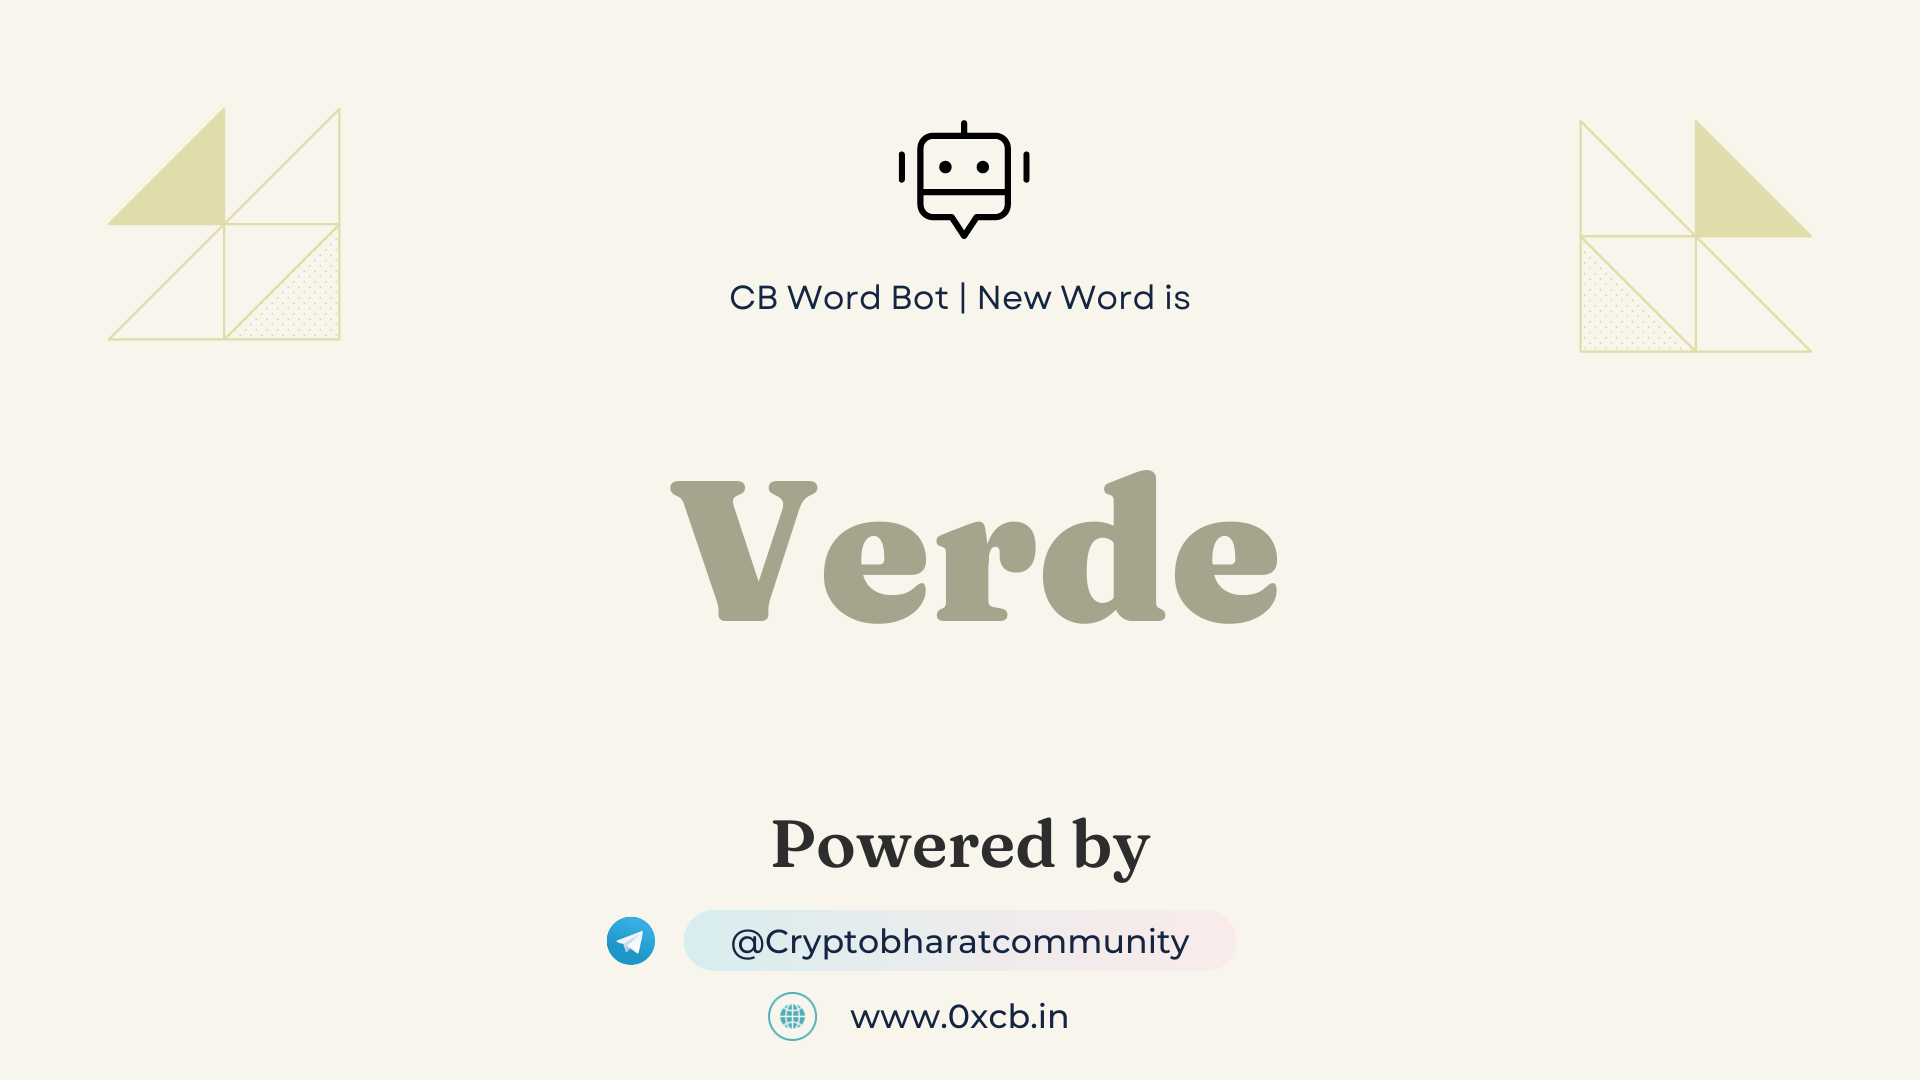
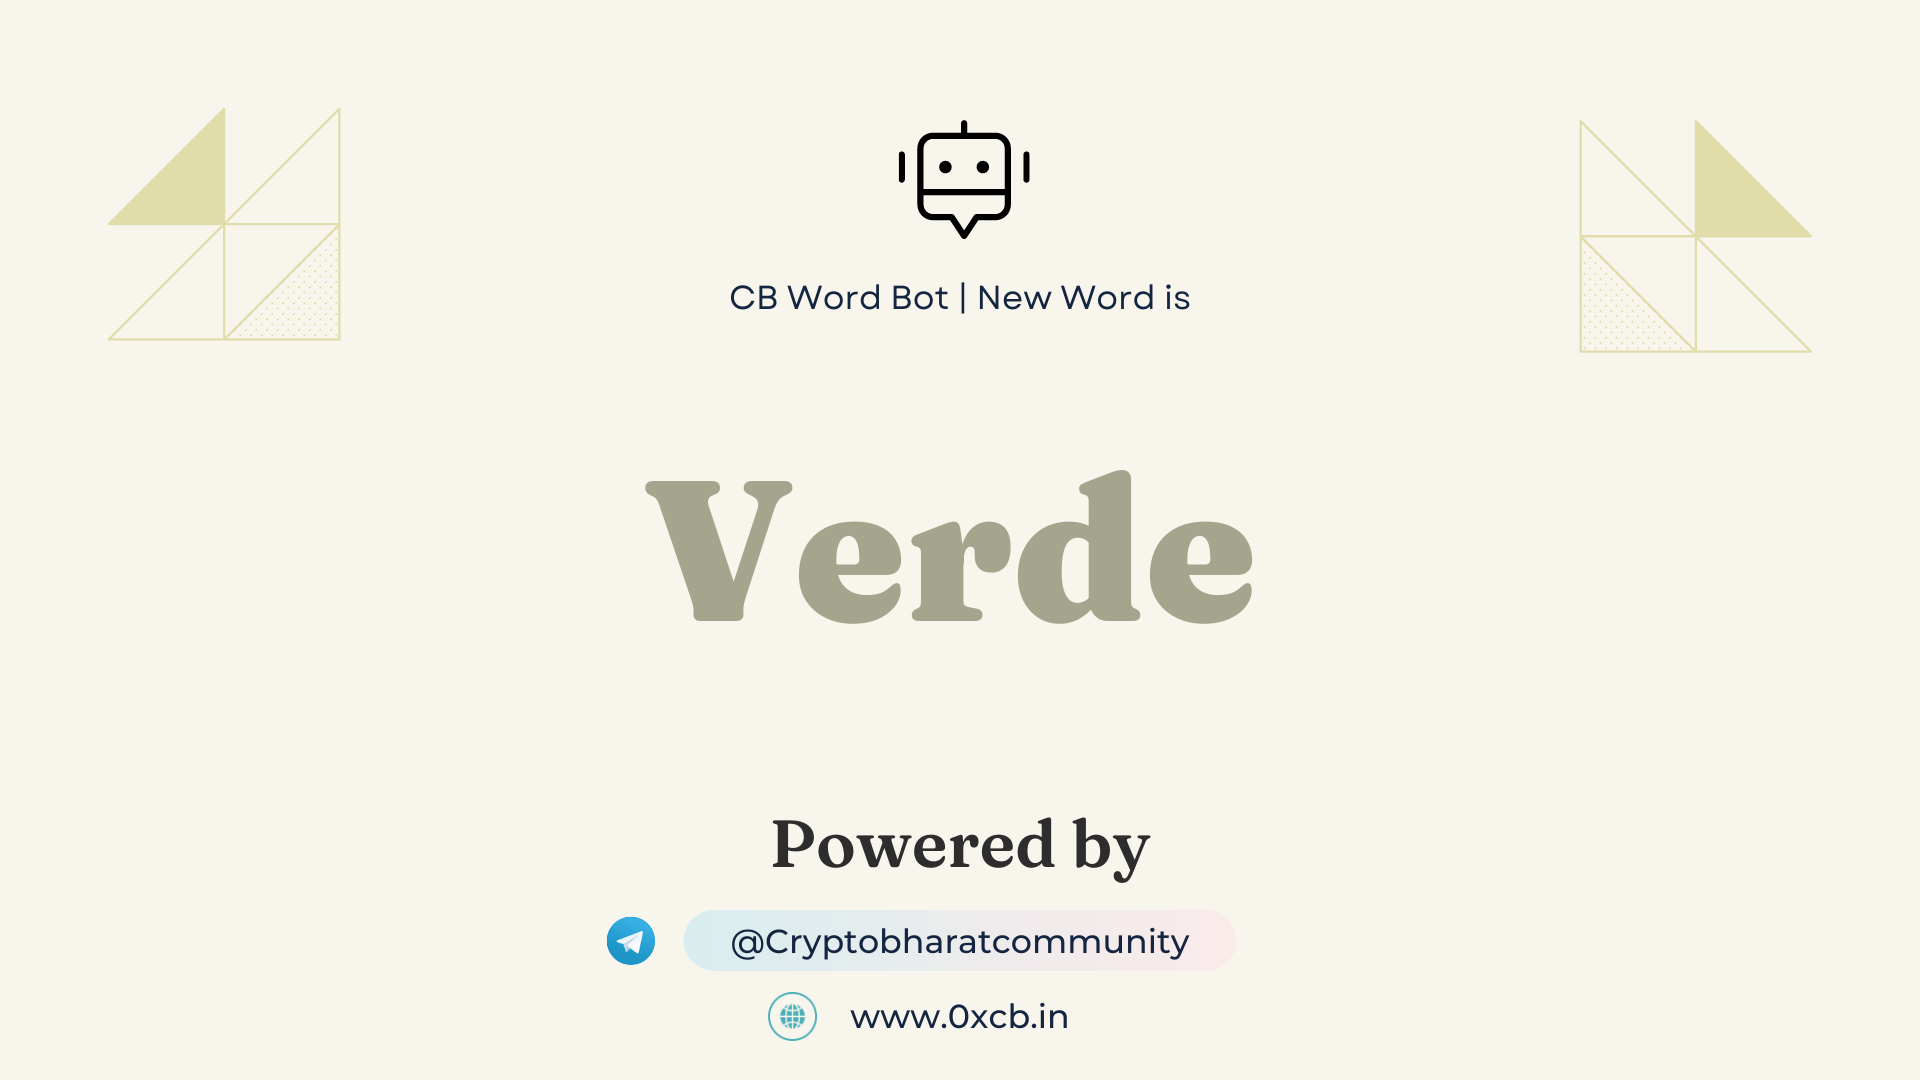
:art: image sizing fix

Changed region(s): [[0.3438, 0.4278, 0.6875, 0.5806]]

diff --git a/api/helpers.py b/api/helpers.py
@@ -42,7 +42,7 @@ def create_image(size, message, font, fontColor):
 
 def generateImage(myMessage: str):
     myFont = ImageFont.truetype(fontPath, 200)
-    myImage = create_image((1950, 1050), myMessage, myFont, '#a5a58d')
+    myImage = create_image((1900, 1050), myMessage, myFont, '#a5a58d')
     myImage.save(imageToSendPath, "PNG")
 
 

diff --git a/main.py b/main.py
@@ -28,3 +28,4 @@ def handleSendMessage():
 def handleSetWebhook():
     setWebhook()
     return "OK"
+
